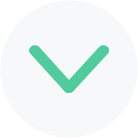
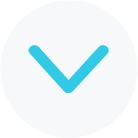
style changes home page

Changed region(s): [[0.2029, 0.3188, 0.8116, 0.6957]]

diff --git a/static/css/style.css b/static/css/style.css
@@ -123,7 +123,7 @@ button, .button {
 	/* right: -27px; */
 	/* left: 10px; */
 	top: 23px;
-	background-color: #50cb9d;
+	background-color: #30c9e8;
 	/* background: url(../img/search.svg); */
 	-webkit-mask-image: url(../img/search.svg);
 	mask-image: url(../img/search.svg);
